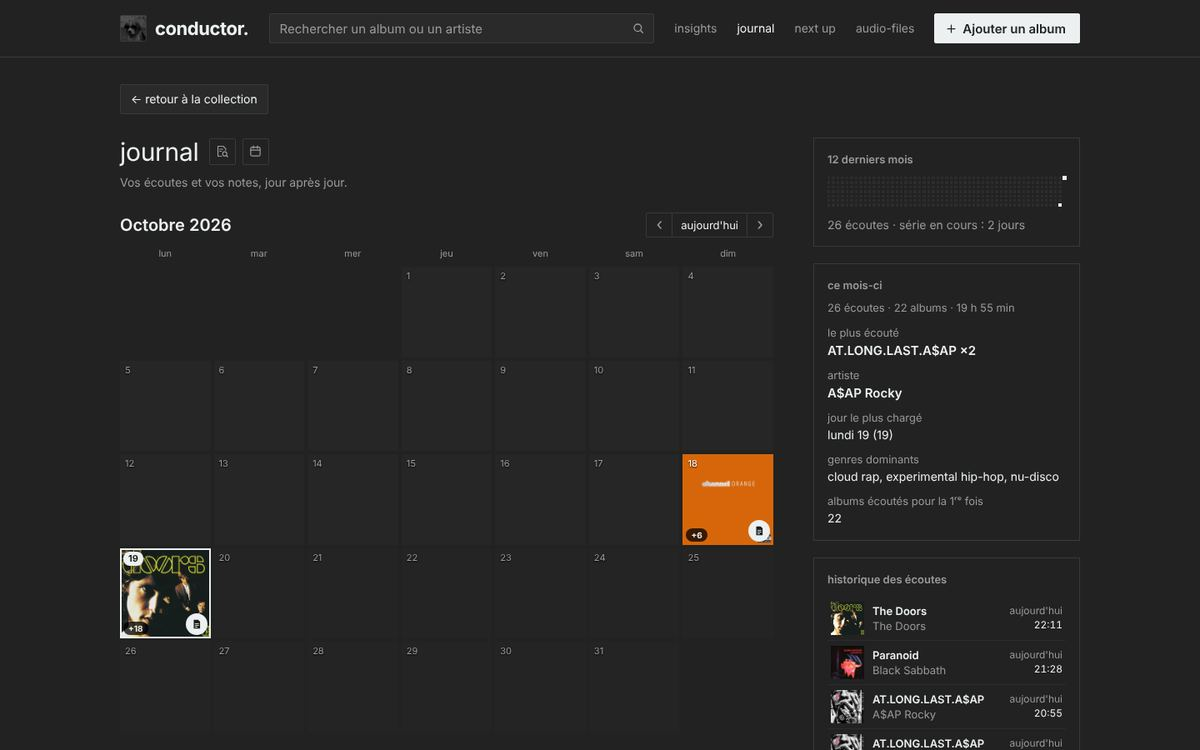
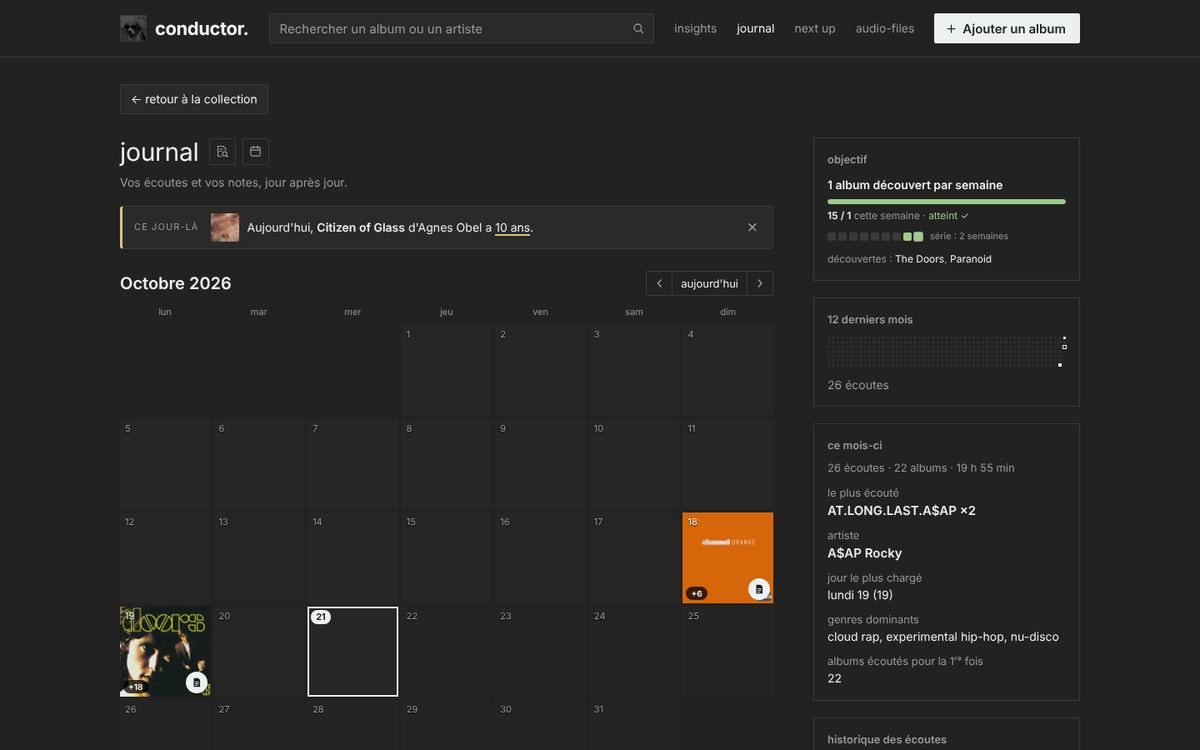
conductor.

diff --git a/README.md b/README.md
@@ -9,6 +9,8 @@ A personal, local-first music library, listening journal and audio player. Inspi
 
 The interface is in French.
 
+![The collection: covers, filters, mini player](assets/about/collection.jpg)
+
 ---
 
 ## Contents
@@ -56,6 +58,8 @@ The interface is in French.
 
 ### Album page
 
+<p align="center"><img src="assets/about/album.jpg" alt="Album page: player and tracklist, cover and sheet"></p>
+
 - **Player**: your own files (local folders or Navidrome) or, without files, 30-second Deezer previews.
 - **Tracklist** with ★ favourite tracks and per-track **lyrics** (see [Lyrics](#lyrics)).
 - **Sheet**: release date, label, genre, styles, family, moods ("ressenti"), custom tags; edit with **Modifier la fiche** (`E`), including the cover (URL, image from the PC, or the cover of your files). In that window, an image copied elsewhere can be pasted as the cover: **right-click the cover preview → Coller la pochette depuis le presse-papiers**, or `Ctrl + V` (Chrome may ask once for clipboard access for the right-click).
@@ -70,11 +74,15 @@ All their albums by release date (with the same ▶ / queue buttons on covers), 
 
 ### Next up
 
+<p align="center"><img src="assets/about/nextup.jpg" alt="Next up: top 5 and the list of albums to listen to" width="900"></p>
+
 - A to-listen list kept apart from the collection.
 - **Top 5** priority grid, then "on the phone" / "not on the phone" lists; drag and drop to reorder; one click moves an album to the collection.
 - **Sleeping albums**: in next up for more than 3 months and never played — listed at the top, marked "endormi" on covers and in yellow in the lists.
 
 ### Playback
+
+<p align="center"><img src="assets/about/queue.jpg" alt="The queue panel above the mini player" width="360"></p>
 
 - **One engine for the whole site**: the music continues across pages and resumes after a reload, at the same track and second.
 - **Mini player** (bottom right): cover, track, ★, previous / next, play / pause, progress, go to the album, queue, full screen, close.
@@ -85,6 +93,8 @@ All their albums by release date (with the same ▶ / queue buttons on covers), 
 - **Media keys and Windows media panel**: the keyboard's play/pause, next and previous keys work even when the browser is in the background, and Windows' volume / media panel shows the track, artist, album and cover (the local cover once `datastorage` is authorised, otherwise the online one).
 
 ### Full screen and karaoke
+
+<p align="center"><img src="assets/about/fullscreen.jpg" alt="Full screen" width="49%"> <img src="assets/about/karaoke.jpg" alt="Karaoke: the line being sung is highlighted" width="49%"></p>
 
 - **Full screen** (`P` or the ⤢ button): large cover on a blurred background, track, artist, album, progress, controls, ★, *next track* and *next album*. The cursor and hints hide after 3 s without moving the mouse. `Esc` or `P` to leave.
 - **Karaoke** (`K` or the microphone button): synced lyrics next to the cover — the current line is highlighted and stays centered, click a line to jump there, scroll freely (auto-scroll resumes after 4 s).
@@ -106,6 +116,8 @@ Both the album page (plain text) and karaoke (synced) look in your files first, 
 
 ### Your audio files
 
+<p align="center"><img src="assets/about/files.jpg" alt="The audio-files page: local folders and the phone" width="900"></p>
+
 **audio-files** page.
 
 **Local storage** — SD card, USB stick, external drive or any PC folder; add as many folders as you like.
@@ -123,6 +135,8 @@ Both the album page (plain text) and karaoke (synced) look in your files first, 
 
 ### Journal
 
+<p align="center"><img src="assets/about/journal.jpg" alt="The journal: Ce jour-là, the month calendar with covers, the weekly goal and the month stats"></p>
+
 - **Calendar** of the month with the covers of each day's listens (today highlighted); per day: copy the list (`1. [[Artist]] - [[Album]]`) and open the day's note.
 - **Listening time chart** for the displayed month (with its own ‹ aujourd'hui › navigation), month total and today.
 - **This month**: most played album and artist, busiest day, top 3 genres (links to the search).
@@ -134,12 +148,16 @@ Both the album page (plain text) and karaoke (synced) look in your files first, 
 
 ### Insights and fiches à compléter
 
+<p align="center"><img src="assets/about/insights.jpg" alt="Insights: the collection in numbers" width="900"></p>
+
 - **Insights**: the collection in numbers (albums, artists, total listening time, next up), families, most present artists, decades, intensity, albums to rediscover — every bar links to the filtered collection.
 - **N fiches à compléter →**: albums missing a cover, genre, release date, tracklist, intensity or mood, or whose **cover is online only** (its site refused the copy, so it would be blank offline). Filter by criterion, dismiss a criterion per album (×).
 - **exporter en CSV ↓**: download the whole collection as a spreadsheet.
 - **wrapped**: the year in music (see below).
 
 ### Wrapped
+
+<p align="center"><img src="assets/about/wrapped.jpg" alt="Wrapped: the year in music (demo year)" width="900"></p>
 
 The year in music, computed from your listens (offline). `Shift + W`, or **wrapped** in insights.
 
